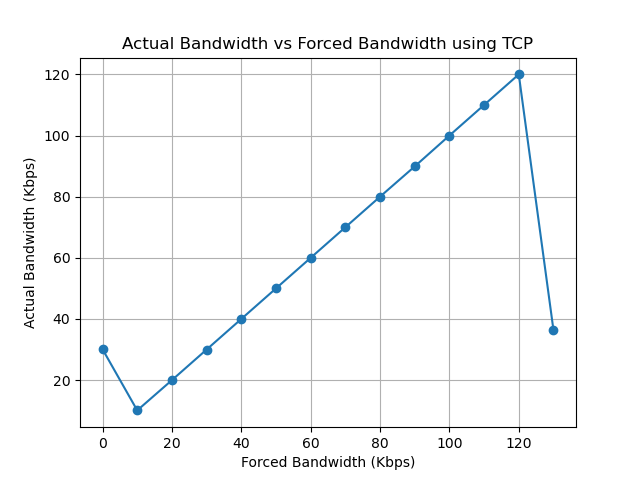
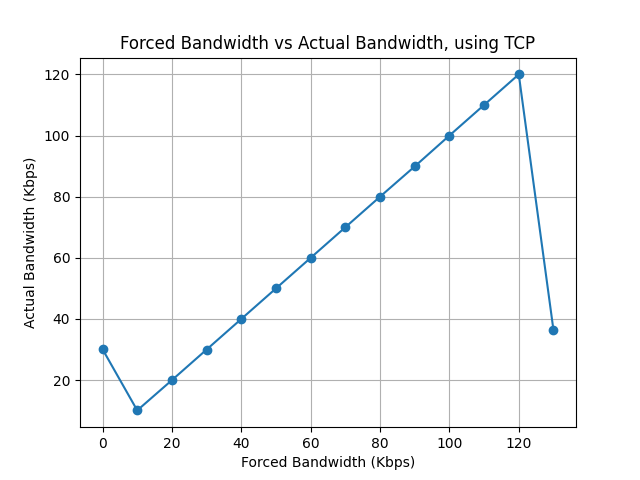
Update result plots

Changed region(s): [[0.1875, 0.0625, 0.8438, 0.125], [0.5938, 0.9375, 0.625, 0.9688], [0.0312, 0.3438, 0.0625, 0.375]]

diff --git a/results/data.py b/results/data.py
@@ -6,35 +6,46 @@ df = pd.read_csv('udp_results.csv')
 # packet loss vs bandwidth
 plt.figure()
 plt.plot(df['Bandwidth (Kbps)'].to_numpy(), df['Packet Loss (%)'].to_numpy(), marker='o')
-plt.title('Packet Loss vs Bandwidth using UDP')
-plt.text(905,3,'packet size = 64 bytes', fontsize=10, color='black')
+plt.title('Bandwidth vs Packet Loss, using UDP')
+#plt.text(905,3,'packet size = 64 bytes', fontsize=10, color='black')
 plt.xlabel('Bandwidth (Kbps)')
 plt.ylabel('Packet Loss (%)')
 plt.grid(True)
-plt.show()
-plt.savefig('pl_bw_udp.png')
+#plt.show()
+plt.savefig('bw_pl_udp.png')
 
 # jitter vs bandwidth
 plt.figure()
 plt.plot(df['Bandwidth (Kbps)'].to_numpy(), df['Jitter (ms)'].to_numpy(), marker='o', color='orange')
-plt.title('Jitter vs Bandwidth')
-plt.text(905,1.25,'packet size = 64 bytes', fontsize=10, color='black')
+plt.title('Bandwidth vs Jitter, using UDP')
+#plt.text(905,1.25,'packet size = 64 bytes', fontsize=10, color='black')
 plt.xlabel('Bandwidth (Kbps)')
 plt.ylabel('Jitter (ms)')
 plt.grid(True)
-plt.show()
-plt.savefig('jit_bw_udp.png')
+#plt.show()
+plt.savefig('bw_jit_udp.png')
+
+# jitter vs bandwidth
+plt.figure()
+plt.plot(df['IPG (us)'].to_numpy(), df['Packet Loss (%)'].to_numpy(), marker='o', color='orange')
+plt.title('IPG vs Packet Loss, using UDP')
+#plt.text(905,1.25,'packet size = 64 bytes', fontsize=10, color='black')
+plt.xlabel('IPG (us)')
+plt.ylabel('Packet loss (%)')
+plt.grid(True)
+#plt.show()
+plt.savefig('ipg_pl_udp.png')
 
     ### TCP ###
 df = pd.read_csv('tcp_results.csv')
 # bandwidth vs Forced bandwidth
 plt.figure()
 plt.plot(df['Forced Bandwidth (Kbps)'].to_numpy(), df['Bandwidth (Kbps)'].to_numpy(), marker='o')
-plt.title('Actual Bandwidth vs Forced Bandwidth using TCP')
+plt.title('Forced Bandwidth vs Actual Bandwidth, using TCP')
 plt.xlabel('Forced Bandwidth (Kbps)')
 plt.ylabel('Actual Bandwidth (Kbps)')
 plt.grid(True)
-plt.show()
+#plt.show()
 plt.savefig('fbw_bw_tcp.png')
 
 print("Done!")
